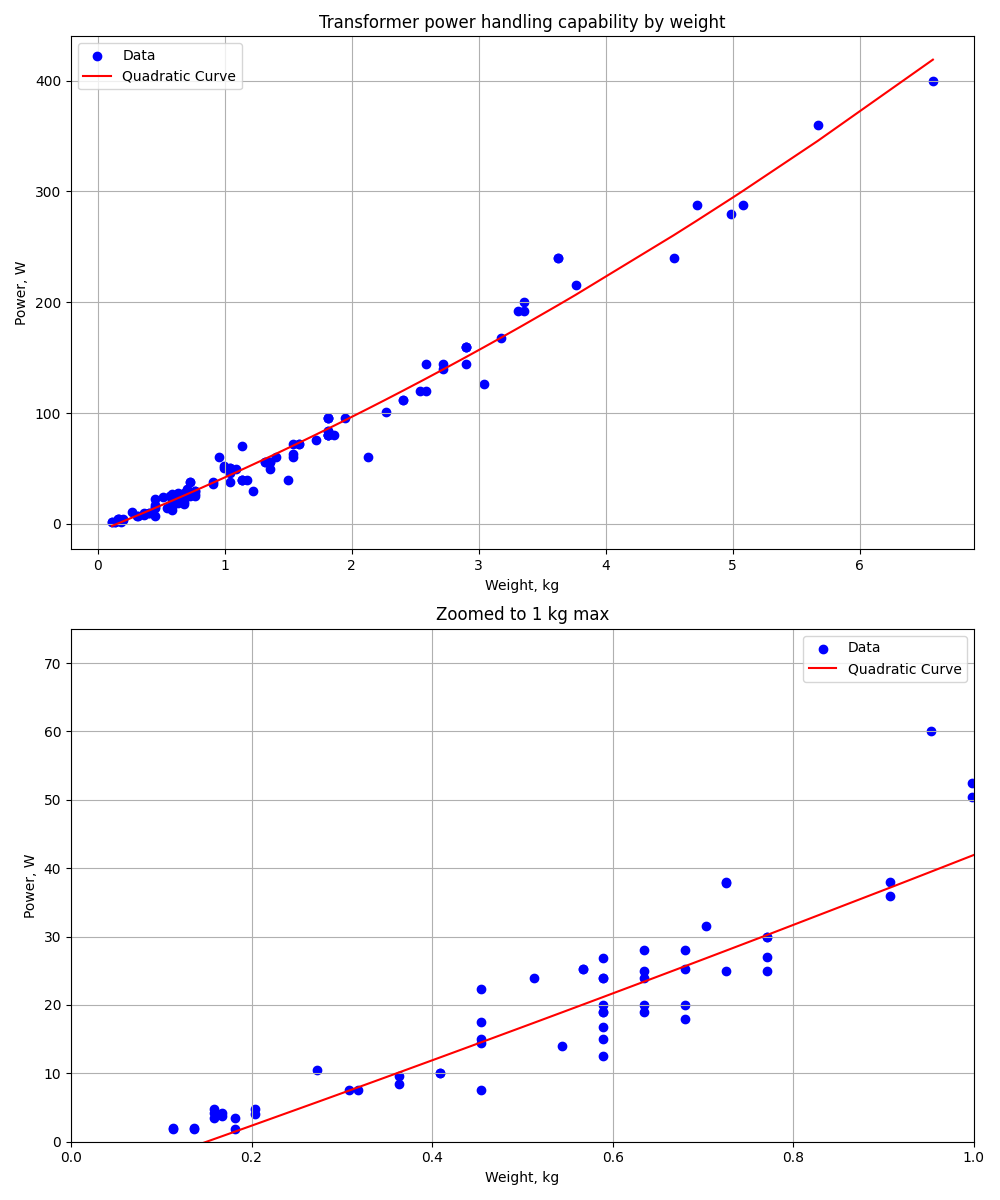
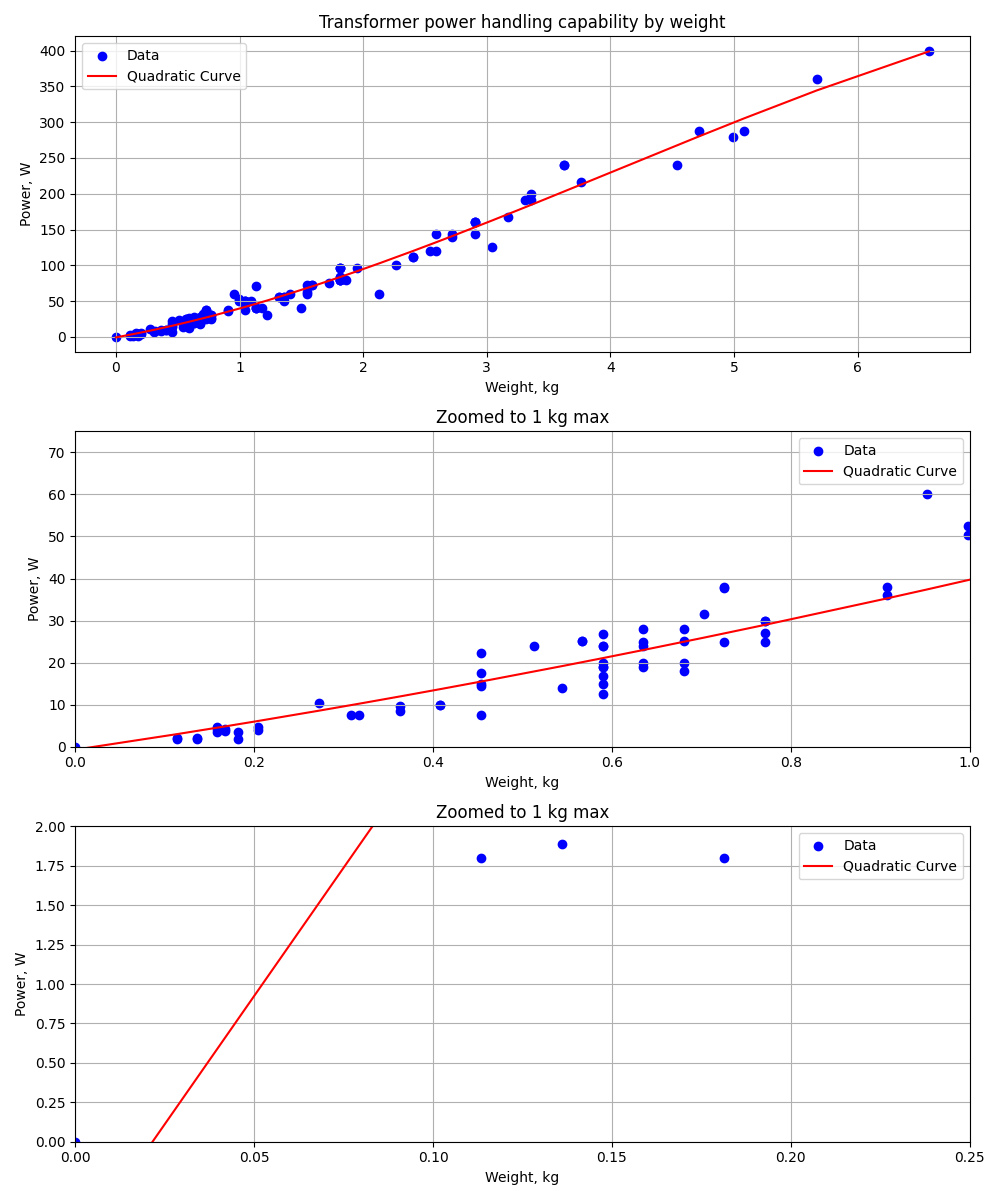
Qubic curve

diff --git a/calculator.py b/calculator.py
@@ -3,6 +3,7 @@ import numpy as np
 
 # Load data from the file, lb-to-watts
 data = []
+data.append((0, 0))
 with open('raw-data.txt', 'r') as file:
     for line in file:
         x, y = line.strip().split('                    ')
@@ -12,31 +13,44 @@ x_values = np.array([point[0] * 0.45359237 for point in data])
 y_values = np.array([point[1] for point in data])
 
 # Perform quadratic regression
-coefficients = np.polyfit(x_values, y_values, 2)
-quadratic_curve = coefficients[0] * x_values**2 + coefficients[1] * x_values + coefficients[2]
+coefficients = np.polyfit(x_values, y_values, 3)
+cubic_curve = coefficients[0] * x_values**3 + \
+    coefficients[1] * x_values**2 + coefficients[2] * x_values + coefficients[3]
+
 
 # Create a figure with two subplots
-fig, (ax1, ax2) = plt.subplots(2, 1, figsize=(10, 12))
+fig, (ax1, ax2, ax3) = plt.subplots(3, 1, figsize=(10, 12))
 
 # First subplot: Full data
 ax1.scatter(x_values, y_values, marker='o', color='blue', label='Data')
-ax1.plot(x_values, quadratic_curve, color='red', label='Quadratic Curve')
+ax1.plot(x_values, cubic_curve, color='red', label='Qubic Curve')
 ax1.set_xlabel('Weight, kg')
 ax1.set_ylabel('Power, W')
 ax1.set_title('Transformer power handling capability by weight')
 ax1.legend()
 ax1.grid(True)
 
-# Second subplot: Zoomed to 2 kg max
+# Second subplot: Zoomed
 ax2.scatter(x_values, y_values, marker='o', color='blue', label='Data')
-ax2.plot(x_values, quadratic_curve, color='red', label='Quadratic Curve')
+ax2.plot(x_values, cubic_curve, color='red', label='Qubic Curve')
 ax2.set_xlabel('Weight, kg')
 ax2.set_ylabel('Power, W')
 ax2.set_title('Zoomed to 1 kg max')
-ax2.set_xlim(0, 1)  # Zoom to 2 kg max
-ax2.set_ylim(0, 75)  # Zoom to 2 kg max
+ax2.set_xlim(0, 1)  # Zoom to 1 kg max
+ax2.set_ylim(0, 75)
 ax2.legend()
 ax2.grid(True)
+
+# Second subplot: Zoomed
+ax3.scatter(x_values, y_values, marker='o', color='blue', label='Data')
+ax3.plot(x_values, cubic_curve, color='red', label='Qubic Curve')
+ax3.set_xlabel('Weight, kg')
+ax3.set_ylabel('Power, W')
+ax3.set_title('Zoomed to 1 kg max')
+ax3.set_xlim(0, 0.25)
+ax3.set_ylim(0, 2)
+ax3.legend()
+ax3.grid(True)
 
 # Adjust layout and display the plots
 plt.tight_layout()
@@ -44,10 +58,10 @@ plt.tight_layout()
 # Save the figure to an image file
 plt.savefig('transformer_power_plot.png')
 
-# plt.show()
+#plt.show()
 
 
 # Example usage of the function
-weight_to_check = 0.4 # Replace with the weight you want to check
+weight_to_check = 0.1  # Replace with the weight you want to check
 power_value = np.poly1d(coefficients)(weight_to_check)
 print(f"Power value for weight {weight_to_check} kg: {power_value:.2f} W")
